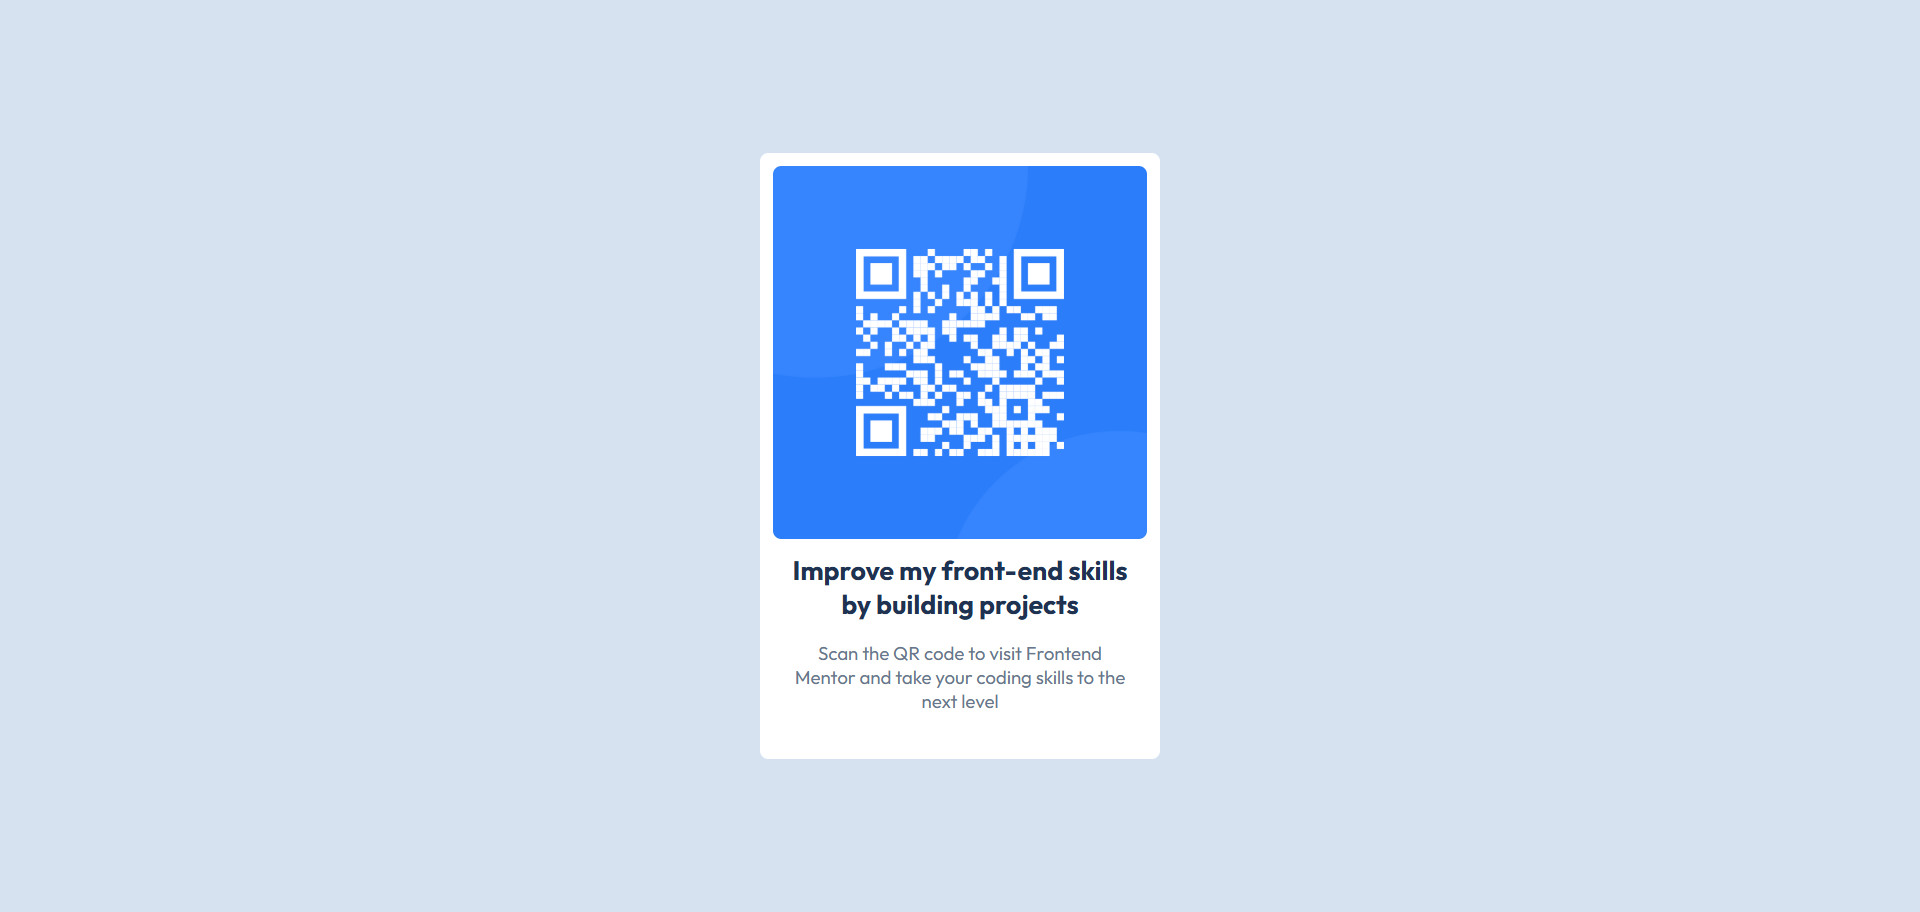
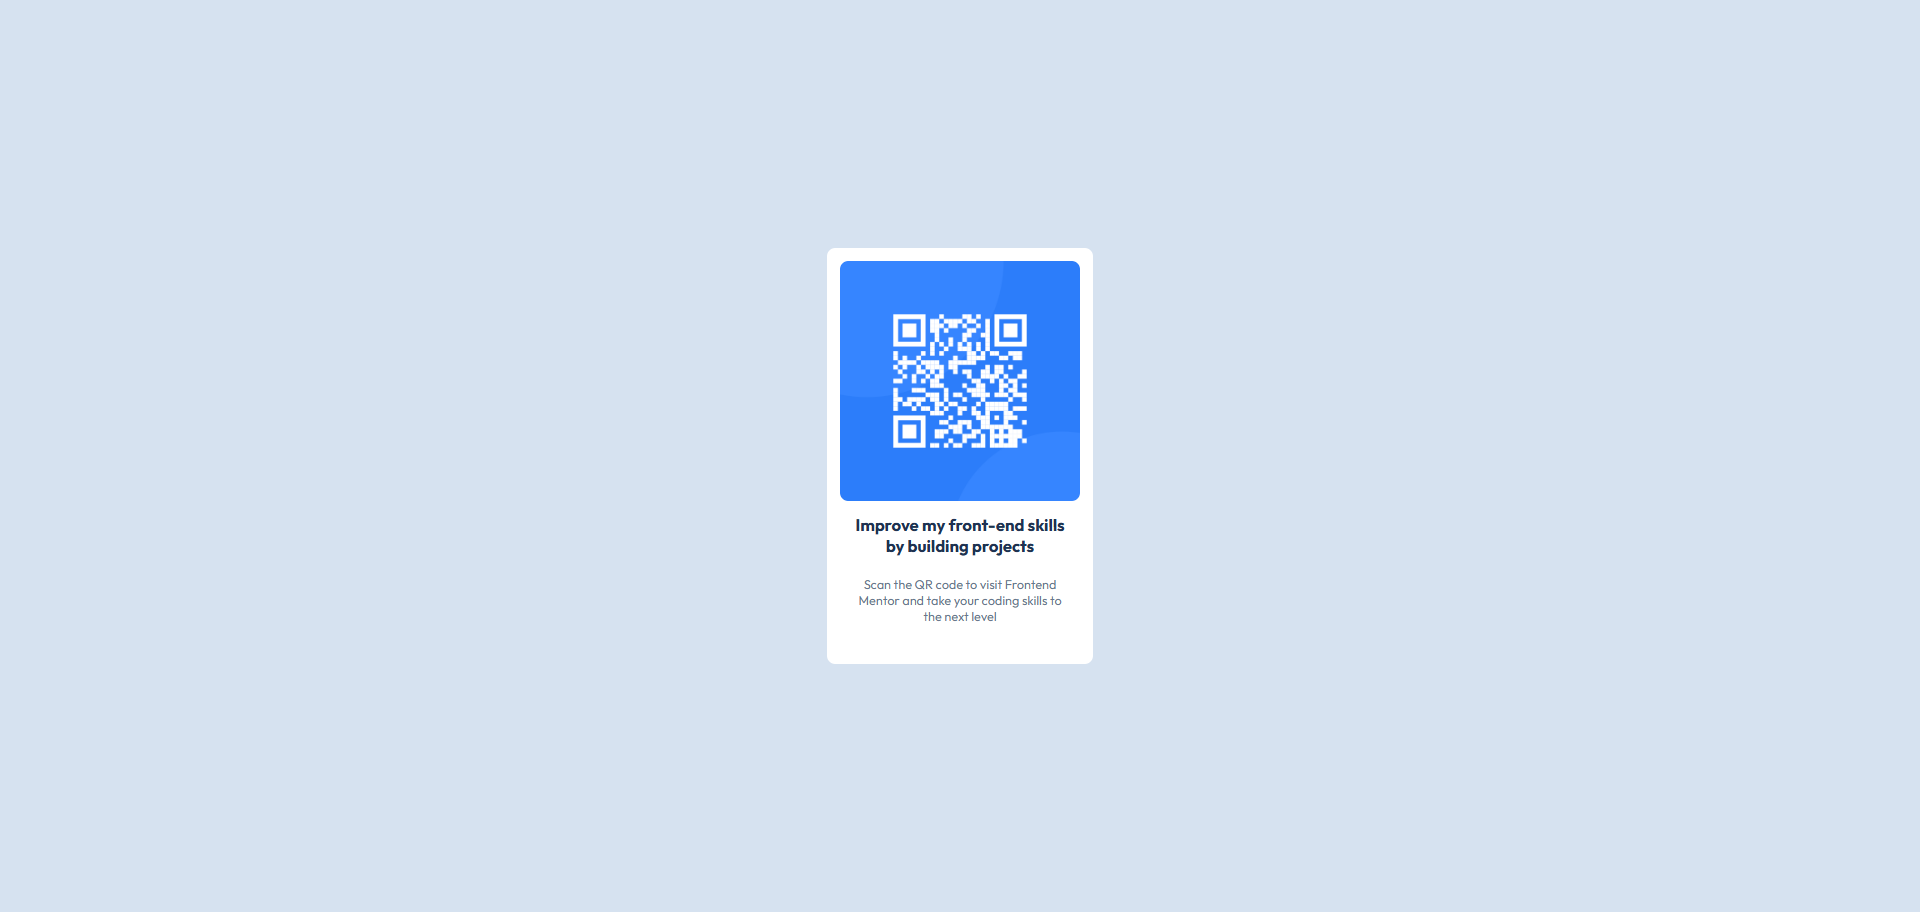
Update Card component styles for improved responsiveness and layout ajustments.

Changed region(s): [[0.375, 0.1535, 0.625, 0.8596]]

diff --git a/src/components/Card.module.css b/src/components/Card.module.css
@@ -1,9 +1,9 @@
 .card {
-    width: 480px;
+    width: 100%;
+    max-width: 320px;
     background-color: hsl(0, 0%, 100%);
     display: flex;
     flex-direction: column; 
-    margin: 0 auto;
     padding: 1em;
     border-radius: 10px;
     align-items: center;
@@ -14,42 +14,20 @@
     display: flex;
     flex-direction: column;
     row-gap: 1.5em;
-    margin-bottom: 2.5em;
+    margin-bottom: 2em;
 }
 .title {
-    font-size: 2em;
+    font-size: 1.25rem;
     font-weight: 700;
     color: hsl(218, 44%, 22%);
 }
 .paragraph {
     font-weight: 400;
-    font-size: 1.4em;
+    font-size: .95rem;
     color: hsl(216, 15%, 48%);
 }
 .qrCodeimage {
     width: 100%;
     border-radius: 10px;
     margin-bottom: 1em;
-}
-@media (max-width: 500px) {
-    .card {
-        width: 90%;
-    }
-    .qrCodeimage {
-        width: 100%;
-    }
-    .title {
-        font-size: 1.5em;
-    }
-    .paragraph {
-        font-size: 1em;
-    }
-}
-@media (max-width: 325px) {
-    .qrCodeimage {
-        width: 80%;
-    }
-    .textContainer {
-        width: 100%;
-    }
 }
